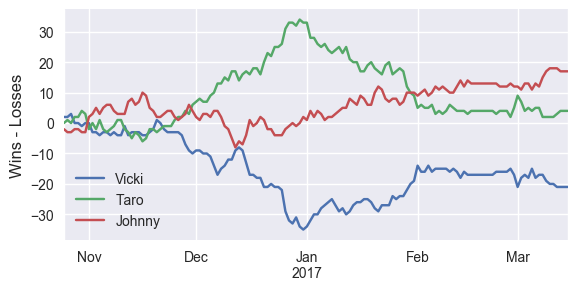
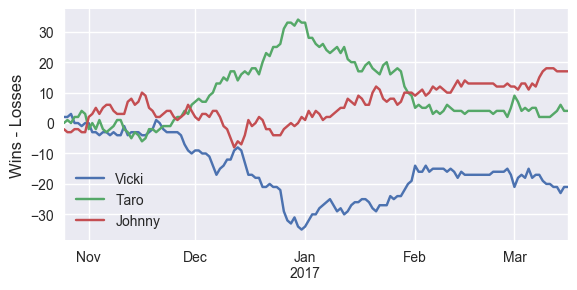
update 3/16

diff --git a/index.html b/index.html
@@ -35,7 +35,7 @@
 <a id="the-bet-is-on" class="anchor" href="#the-bet-is-on" aria-hidden="true"><span aria-hidden="true" class="octicon octicon-link"></span></a>The bet is on.</h1>
 
 <h1>
-<a id="current-winner-of-2016-17-season" class="anchor" href="#current-winner-of-2016-17-season" aria-hidden="true"><span aria-hidden="true" class="octicon octicon-link"></span></a>Current winner of 2016-17 Season (as of 3/15/2017):</h1>
+<a id="current-winner-of-2016-17-season" class="anchor" href="#current-winner-of-2016-17-season" aria-hidden="true"><span aria-hidden="true" class="octicon octicon-link"></span></a>Current winner of 2016-17 Season (as of 3/16/2017):</h1>
 
 <h2>
 <a id="none" class="anchor" href="#none" aria-hidden="true"><span aria-hidden="true" class="octicon octicon-link"></span></a><strong>Johnny</strong>
@@ -44,23 +44,23 @@
 <h2>
 <a id="johnny" class="anchor" href="Johnny.html" aria-hidden="true"><span aria-hidden="true" class="octicon octicon-link"></span>Johnny</a></h2>
 
-<p>Wins: 342<br>
-Losses: 325<br>
-Remaining wins available: 130</p>
+<p>Wins: 346<br>
+Losses: 329<br>
+Remaining wins available: 126</p>
 
 <h2>
 <a id="taro" class="anchor" href="Taro.html" aria-hidden="true"><span aria-hidden="true" class="octicon octicon-link"></span>Taro</a></h2>
 
-<p>Wins: 334<br>
-Losses: 330<br>
-Remaining wins available: 134</p>
+<p>Wins: 339<br>
+Losses: 335<br>
+Remaining wins available: 128</p>
 
 <h2>
 <a id="vicki" class="anchor" href="Vicki.html" aria-hidden="true"><span aria-hidden="true" class="octicon octicon-link"></span>Vicki</a></h2>
 
-<p>Wins: 321<br>
-Losses: 342<br>
-Remaining wins available: 131</p>
+<p>Wins: 327<br>
+Losses: 348<br>
+Remaining wins available: 124</p>
 
 <img src='pythoncode/win_percent.png' alt='Winning Percentage Over Time'>
 <h1>

diff --git a/Vicki.html b/Vicki.html
@@ -35,9 +35,9 @@
 
 <h2>Vicki</h2>
 
-<p>Wins: 321<br>
-Losses: 342<br>
-Remaining wins available: 131</p>
+<p>Wins: 327<br>
+Losses: 348<br>
+Remaining wins available: 124</p>
 
 <h2> Current teams </h2>
 <table border="1">
@@ -49,63 +49,63 @@ Remaining wins available: 131</p>
 </tr>
 <tr>
 <td>Heat</td>
-<td>32</td>
+<td>33</td>
 <td>35</td>
-<td>15</td>
+<td>14</td>
 </tr>
 <tr>
 <td>Mavericks</td>
-<td>28</td>
+<td>29</td>
 <td>38</td>
-<td>16</td>
+<td>15</td>
 </tr>
 <tr>
 <td>Trail Blazers</td>
-<td>29</td>
-<td>36</td>
-<td>17</td>
+<td>30</td>
+<td>37</td>
+<td>15</td>
 </tr>
 <tr>
 <td>Cavaliers</td>
-<td>43</td>
+<td>44</td>
 <td>22</td>
-<td>17</td>
+<td>16</td>
 </tr>
 <tr>
 <td>Bulls</td>
 <td>32</td>
-<td>35</td>
-<td>15</td>
+<td>36</td>
+<td>14</td>
 </tr>
 <tr>
 <td>76ers</td>
 <td>24</td>
-<td>42</td>
-<td>16</td>
+<td>43</td>
+<td>15</td>
 </tr>
 <tr>
 <td>Grizzlies</td>
-<td>37</td>
+<td>38</td>
 <td>30</td>
-<td>15</td>
+<td>14</td>
 </tr>
 <tr>
 <td>Clippers</td>
 <td>40</td>
-<td>27</td>
-<td>15</td>
+<td>28</td>
+<td>14</td>
 </tr>
 <tr>
 <td>Suns</td>
 <td>22</td>
-<td>45</td>
-<td>15</td>
+<td>46</td>
+<td>14</td>
 </tr>
 <tr>
 <td>Pacers</td>
-<td>34</td>
-<td>32</td>
-<td>16</td>
+<td>35</td>
+<td>33</td>
+<td>14</td>
 </tr>
 </table>
 

diff --git a/Taro.html b/Taro.html
@@ -35,9 +35,9 @@
 
 <h2>Taro</h2>
 
-<p>Wins: 334<br>
-Losses: 330<br>
-Remaining wins available: 134</p>
+<p>Wins: 339<br>
+Losses: 335<br>
+Remaining wins available: 128</p>
 
 <h2> Current teams </h2>
 <table border="1">
@@ -49,21 +49,21 @@ Remaining wins available: 134</p>
 </tr>
 <tr>
 <td>Knicks</td>
-<td>26</td>
+<td>27</td>
 <td>41</td>
-<td>15</td>
+<td>14</td>
 </tr>
 <tr>
 <td>Nets</td>
 <td>12</td>
-<td>53</td>
-<td>17</td>
+<td>54</td>
+<td>16</td>
 </tr>
 <tr>
 <td>Thunder</td>
-<td>37</td>
+<td>38</td>
 <td>29</td>
-<td>16</td>
+<td>15</td>
 </tr>
 <tr>
 <td>Raptors</td>
@@ -74,38 +74,38 @@ Remaining wins available: 134</p>
 <tr>
 <td>Spurs</td>
 <td>52</td>
-<td>14</td>
-<td>16</td>
+<td>15</td>
+<td>15</td>
 </tr>
 <tr>
 <td>Hornets</td>
 <td>29</td>
-<td>38</td>
-<td>15</td>
+<td>39</td>
+<td>14</td>
 </tr>
 <tr>
 <td>Rockets</td>
-<td>46</td>
+<td>47</td>
 <td>21</td>
-<td>15</td>
+<td>14</td>
 </tr>
 <tr>
 <td>Wizards</td>
 <td>41</td>
-<td>25</td>
-<td>16</td>
-</tr>
-<tr>
-<td>Kings</td>
 <td>26</td>
-<td>41</td>
 <td>15</td>
 </tr>
 <tr>
+<td>Kings</td>
+<td>27</td>
+<td>41</td>
+<td>14</td>
+</tr>
+<tr>
 <td>Pelicans</td>
-<td>26</td>
-<td>40</td>
-<td>16</td>
+<td>27</td>
+<td>41</td>
+<td>14</td>
 </tr>
 </table>
 

diff --git a/Johnny.html b/Johnny.html
@@ -35,9 +35,9 @@
 
 <h2>Johnny</h2>
 
-<p>Wins: 342<br>
-Losses: 325<br>
-Remaining wins available: 130</p>
+<p>Wins: 346<br>
+Losses: 329<br>
+Remaining wins available: 126</p>
 
 <h2> Current teams </h2>
 <table border="1">
@@ -49,21 +49,21 @@ Remaining wins available: 130</p>
 </tr>
 <tr>
 <td>Bucks</td>
-<td>32</td>
+<td>33</td>
 <td>34</td>
-<td>16</td>
+<td>15</td>
 </tr>
 <tr>
 <td>Warriors</td>
-<td>52</td>
+<td>53</td>
 <td>14</td>
-<td>16</td>
+<td>15</td>
 </tr>
 <tr>
 <td>Timberwolves</td>
 <td>28</td>
-<td>38</td>
-<td>16</td>
+<td>39</td>
+<td>15</td>
 </tr>
 <tr>
 <td>Hawks</td>
@@ -73,15 +73,15 @@ Remaining wins available: 130</p>
 </tr>
 <tr>
 <td>Celtics</td>
-<td>42</td>
+<td>43</td>
 <td>25</td>
-<td>15</td>
+<td>14</td>
 </tr>
 <tr>
 <td>Pistons</td>
 <td>33</td>
-<td>33</td>
-<td>16</td>
+<td>35</td>
+<td>14</td>
 </tr>
 <tr>
 <td>Nuggets</td>
@@ -91,15 +91,15 @@ Remaining wins available: 130</p>
 </tr>
 <tr>
 <td>Jazz</td>
-<td>42</td>
+<td>43</td>
 <td>25</td>
-<td>15</td>
+<td>14</td>
 </tr>
 <tr>
 <td>Lakers</td>
 <td>20</td>
-<td>47</td>
-<td>15</td>
+<td>48</td>
+<td>14</td>
 </tr>
 <tr>
 <td>Magic</td>
